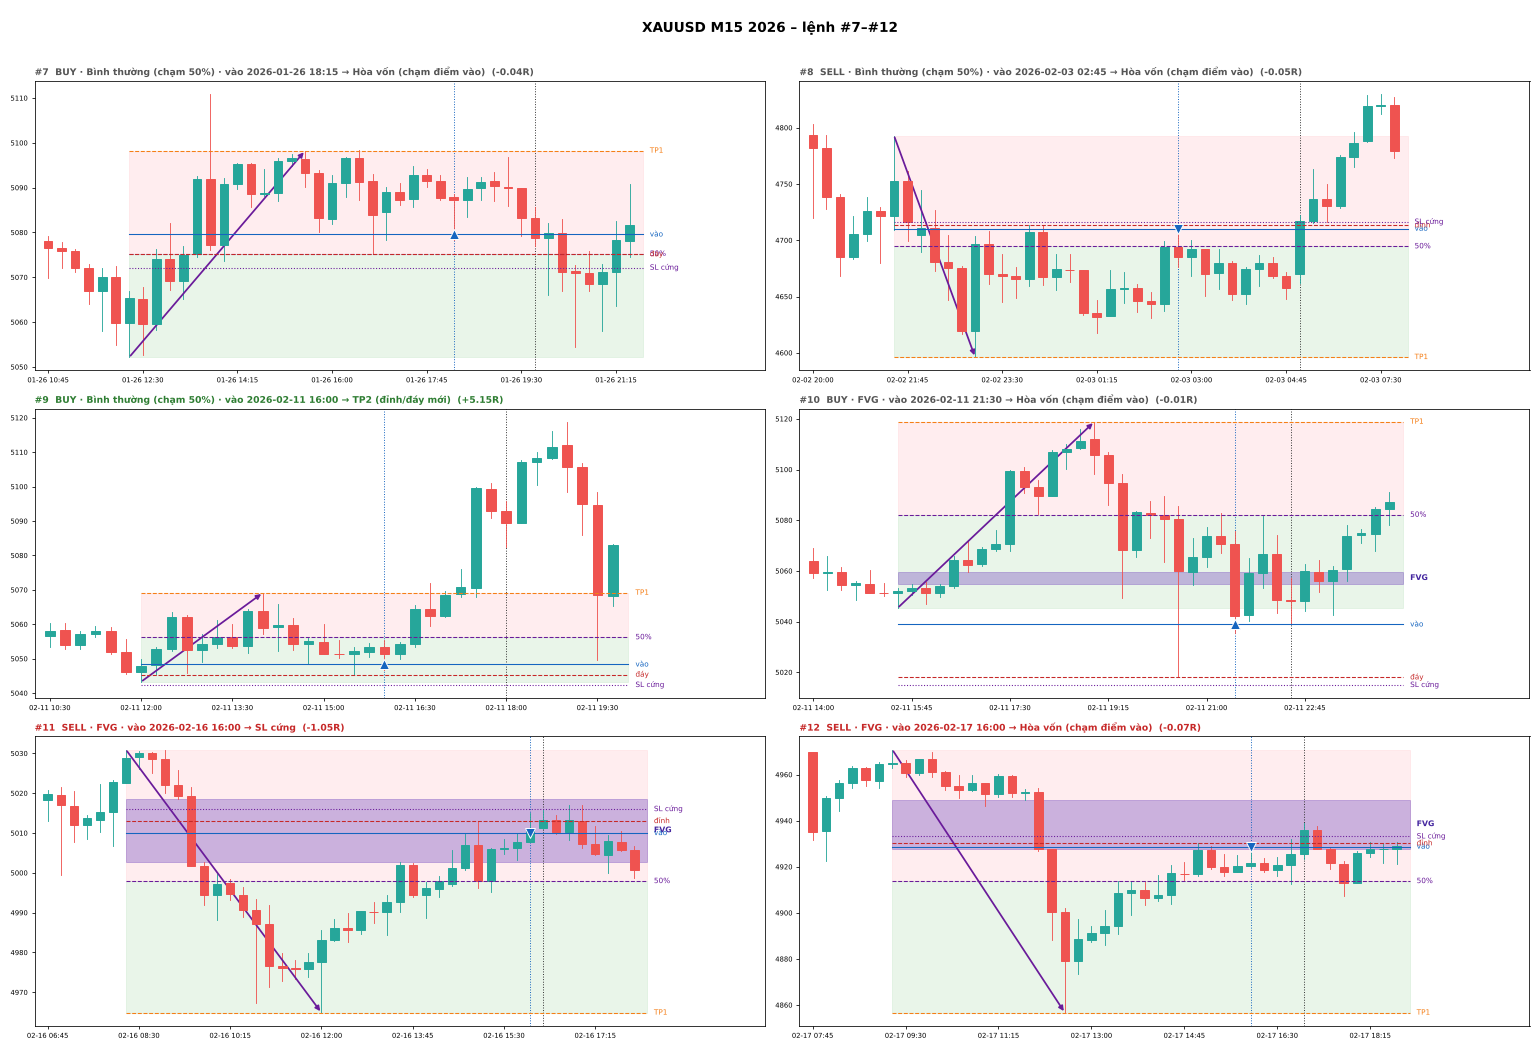
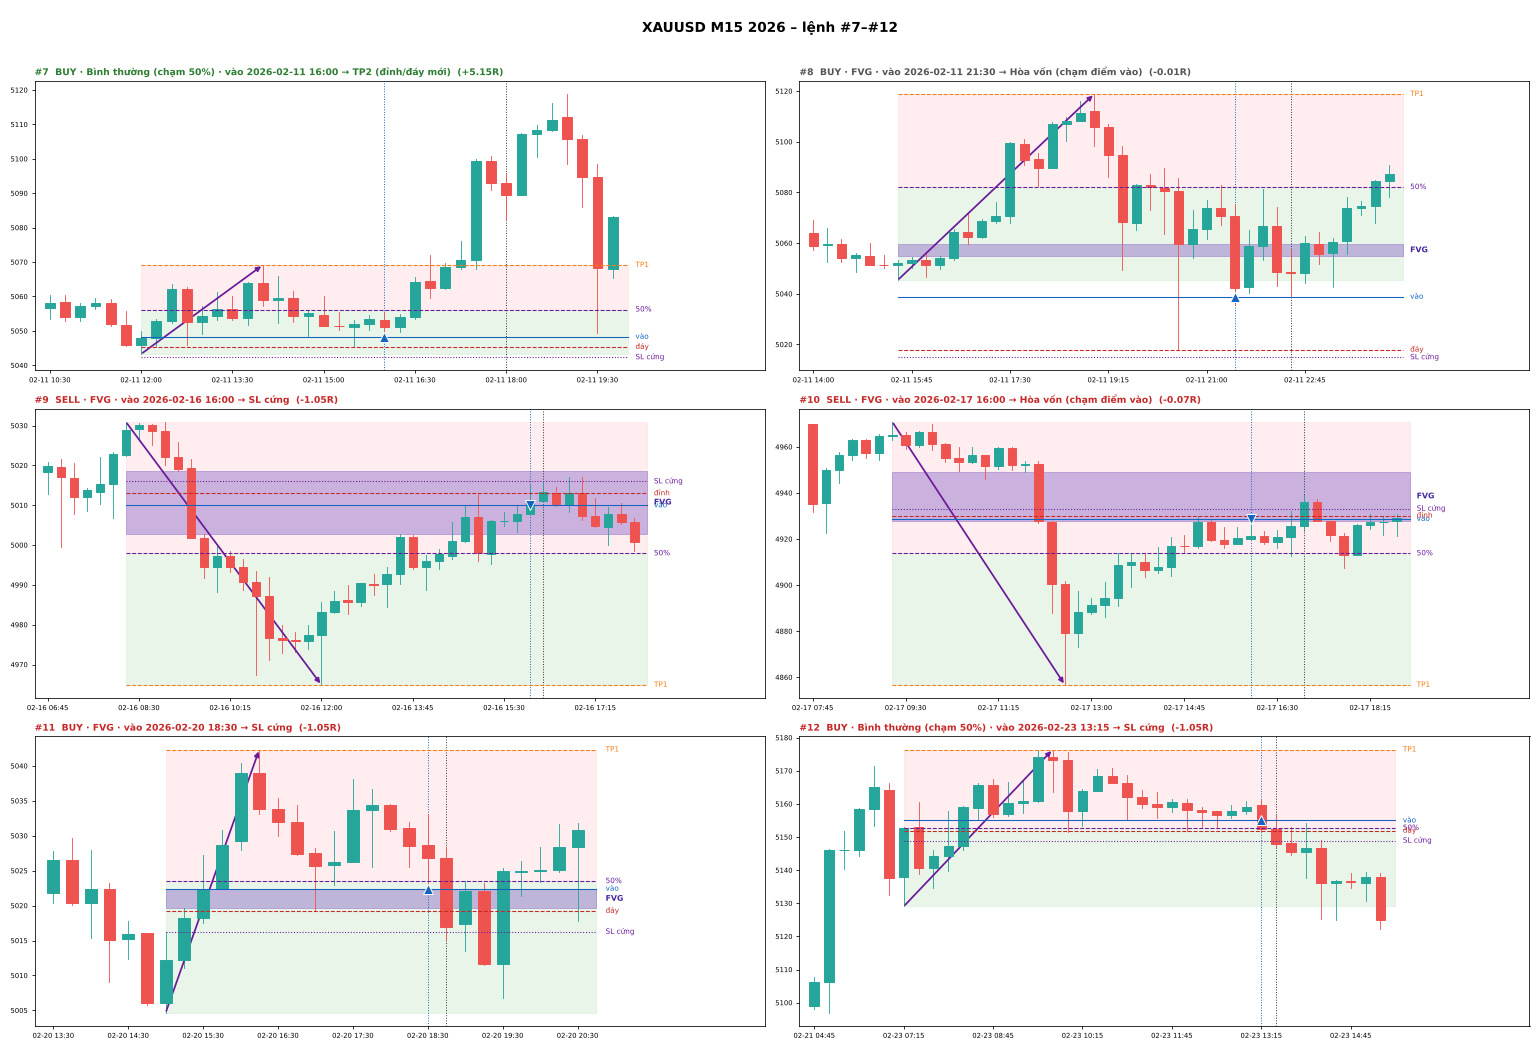
Đáy nông (B4/C2): sóng đó không BUY, đợi phá đỉnh; backtest Lần 19, vẽ lại lệnh M15
Claude-Session: https://claude.ai/code/session_01QDQqkxbAsnss6apbWZAP33

diff --git a/tools/vao_lenh_uu_tien.py b/tools/vao_lenh_uu_tien.py
@@ -21,6 +21,8 @@ Chỉ dùng một khung (M1/M1 hoặc M15/M15). Ví dụ xu hướng tăng (SELL
         có điểm thấp nhất. POI/FVG: nến chạm lần đầu đóng cửa dưới đáy vùng → vùng hết hiệu lực.
       - Huỷ lệnh chờ: giá chạm đỉnh T trước khi khớp; nến đóng cửa dưới điểm thấp nhất; khớp trong giờ cấm.
         (KHÔNG huỷ khi giá tạo đỉnh cách 1 trước khi khớp – đã bỏ 24/11.)
+  * Pha hồi từ đỉnh đã tạo đáy (cách 1) mà chưa chạm 50% (đáy nông = thanh khoản, trường hợp B4/C2) → sóng đó
+    KHÔNG BUY, phải đợi thân nến phá đỉnh (sóng mới) – người dùng xác nhận 24/11.
   * Mỗi vùng dùng một lần. Lệnh ở vùng trên bị DỪNG LỖ → được vào tiếp ở vùng dưới; lệnh hòa vốn / chốt lời → hết sóng.
   * Quản lý lệnh giống trước (SL theo đóng cửa + SL cứng, TP1 tại T, dời SL về điểm vào, TP2 khi tạo đỉnh mới).
 """
@@ -131,10 +133,22 @@ def run(bars, side, spread=0.3, hard_buf=3.0, diag=None):
         if mode == "UP" and T is not None and B is not None and B.i < T.i:
             if wave is None or wave["T"].i != T.i or wave["B"].i != B.i:
                 mid = (B.price + T.price) / 2
-                wave = {"T": T, "B": B, "mid": mid, "zones": build_zones(B, T, mid, bars, k, liqs), "done": False}
+                wave = {"T": T, "B": B, "mid": mid, "zones": build_zones(B, T, mid, bars, k, liqs), "done": False,
+                        "lo": float("inf"), "q": T.i + 1, "khoa": False}
                 inc("1_song")
                 if setup is not None:
                     setup = None
+            # Pha hồi từ đỉnh T đã TẠO ĐÁY (cách 1) mà chưa chạm 50% → đáy nông = thanh khoản; sóng này KHÔNG được BUY,
+            # phải đợi thân nến phá đỉnh (sóng mới). Áp dụng cho B4 và C2 (người dùng xác nhận 24/11/2026).
+            while wave["q"] <= j and not wave["khoa"]:
+                q = wave["q"]; wave["lo"] = min(wave["lo"], bars[q].l)
+                if q > T.i and bars[q].c > bars[q - 1].h and wave["lo"] > wave["mid"] and setup is None:
+                    wave["khoa"] = True
+                    if not wave["done"]:
+                        inc("x_khoa_song_day_nong")
+                wave["q"] += 1
+            if wave["khoa"] and trade is None:
+                wave["done"] = True
         elif trade is None:
             wave = None; setup = None
         # ---- quản lý lệnh đang mở

diff --git a/knowledge/03-setup.md b/knowledge/03-setup.md
@@ -123,6 +123,7 @@ Ví dụ chart thật: `examples/01-dinh-day-xauusd-h4.jpg`
   3. FVG nằm TRÊN POI → FVG **có thể khai thác độc lập** với POI.
   - Chi tiết đã chốt: (1) quét thanh khoản mà râu CHƯA chạm POI → không vào; điểm vào/SL theo quy tắc quét. (2) FVG vào lệnh giống POI, phải nằm trong discount, dùng một lần. (3) Không có vùng nào → vẫn khai thác bình thường khi chạm 50%. (4) Nhiều vùng → vùng giá chạm trước ưu tiên; lệnh vùng trên bị dừng lỗ → ĐƯỢC vào tiếp ở vùng dưới.
 - **Khi giá về thanh khoản (đáy nông Đáy 2):** có nến QUÉT → vào lệnh kiểu thanh khoản (TH2). Thân nến đóng cửa dưới Đáy 2 → bỏ kiểu thanh khoản, chờ POI (TH3). Người dùng thêm: nếu Đáy 2 nằm trong discount của PnD Đáy 1 → Đỉnh 2 thì vẫn "khai thác bình thường" (chờ duyệt cách hiểu – xem `examples/41-than-dong-duoi-day-2.png`).
+- **Đáy nông → phải đợi phá đỉnh mới được BUY (đã xác nhận 2026-11-24, `examples/44-sau-truong-hop-b4.png`, `examples/45-b4-doi-pha-dinh-moi.png`):** áp dụng cho **B4** (xác nhận tăng nhưng Đáy B hồi không tới 50%) và **C2** (đang tăng, pha hồi từ đỉnh tạo đáy nông chưa tới 50%). Khi pha hồi từ đỉnh đã **tạo đáy (cách 1) mà chưa chạm 50%** → đáy đó là thanh khoản, **sóng hiện tại KHÔNG BUY** (kể cả khi giá sau đó rơi về discount); phải đợi **thân nến đóng trên đỉnh** → có đỉnh mới → BUY ở discount của sóng mốc cấu trúc → đỉnh mới. Không áp dụng cho B3/A1/A2 khi pha hồi đủ 50%. Xu hướng giảm: ngược lại.
 - **Pha hồi không đủ (đã xác nhận):** mục đích chủ yếu là **tìm vùng thanh khoản**. Xu hướng **giảm**: **đỉnh** của pha hồi không đủ là **thanh khoản**. Xu hướng **tăng**: **đáy** của pha hồi không đủ là thanh khoản. Đường giá đi qua cả đỉnh/đáy của pha hồi không đủ (đường đen do người dùng vẽ trên ngày 22/10).
 - Minh họa trên dữ liệu thật: `backtest/pha-day-hoi-2026-10-22.png`.
 - Cách hiểu của Claude: pha đẩy bắt đầu từ điểm cực trị của pha hồi trước (đáy tạo ra đỉnh mới khi tăng) và kết thúc tại đỉnh/đáy mới; PnD đo trên pha đẩy gần nhất; các quy tắc phase 1–4 bên dưới vẫn áp dụng theo tương ứng.

diff --git a/backtest/README.md b/backtest/README.md
@@ -185,7 +185,7 @@ Còn lại 3 điều kiện huỷ: giá chạm đỉnh cũ T trước khi khớp
 - M15 vẫn dương cả hai năm kể cả khi chi phí 1.0 và khi bỏ 3 lệnh lãi lớn nhất (2026 chỉ còn +1.3R).
 - M1 vẫn rất nhạy với chi phí (âm khi chi phí 1.0) → tiếp tục ưu tiên M15.
 
-### Vẽ toàn bộ lệnh M15 để duyệt (đã cập nhật theo Lần 18)
+### Vẽ toàn bộ lệnh M15 để duyệt (đã cập nhật theo Lần 19)
 `backtest/lenh-m15/2025/` (73 lệnh) và `backtest/lenh-m15/2026/` (71 lệnh): mỗi ảnh 6 lệnh đánh số, `danh-sach.md` liệt kê từng lệnh.
 Vẽ bằng `python3 tools/ve_lenh_m15.py nen_M1.csv ket_qua_M15.csv thu_muc_ra NHAN`.
 
@@ -200,3 +200,15 @@ Trước đây chỉ cần đáy mới thấp hơn (tính theo râu). Sơ đồ 
 | M15 | 2026 | 69 | 10/48/11 | **+13.3R** | −6.4R | −10.0R | +4.3R | +26.3R |
 
 - Quy tắc chặt hơn làm kết quả giảm, rõ nhất ở 2026. M15 2025 vẫn vững; M15 2026 còn dương nhưng phụ thuộc 3 lệnh lớn.
+
+## Lần 19 – đáy nông (B4/C2) → sóng đó không BUY, phải đợi thân nến phá đỉnh (người dùng xác nhận 24/11)
+Khi pha hồi từ đỉnh đã tạo đáy (cách 1) mà chưa chạm 50% → khoá sóng. Sơ đồ: `examples/44-*.png`, `examples/45-*.png`.
+
+| Khung | Năm | Lệnh | Thắng/Thua/Hòa | Tổng (0.3) | Sụt giảm | Bỏ 3 lệnh lãi lớn nhất | Chi phí 1.0 | Lần 18 |
+|---|---|---|---|---|---|---|---|---|
+| M1 | 2025 | 326 | 56/269/1 | +50.2R | −7.8R | +16.7R | −18.5R | +83.3R |
+| M1 | 2026 | 231 | 31/197/3 | +9.1R | −12.3R | −13.0R | −35.8R | +72.0R |
+| M15 | 2025 | 47 | 16/31/0 | **+54.0R** | −4.1R | +30.2R | +45.9R | +62.2R |
+| M15 | 2026 | 47 | 8/33/6 | **+15.4R** | −8.8R | −6.5R | +9.0R | +13.3R |
+
+- Số lệnh giảm khoảng 1/3 (M15) và hơn 1/2 (M1). M15: tổng R mỗi lệnh tăng (2025: +1.15R/lệnh), 2026 nhỉnh hơn Lần 18.
